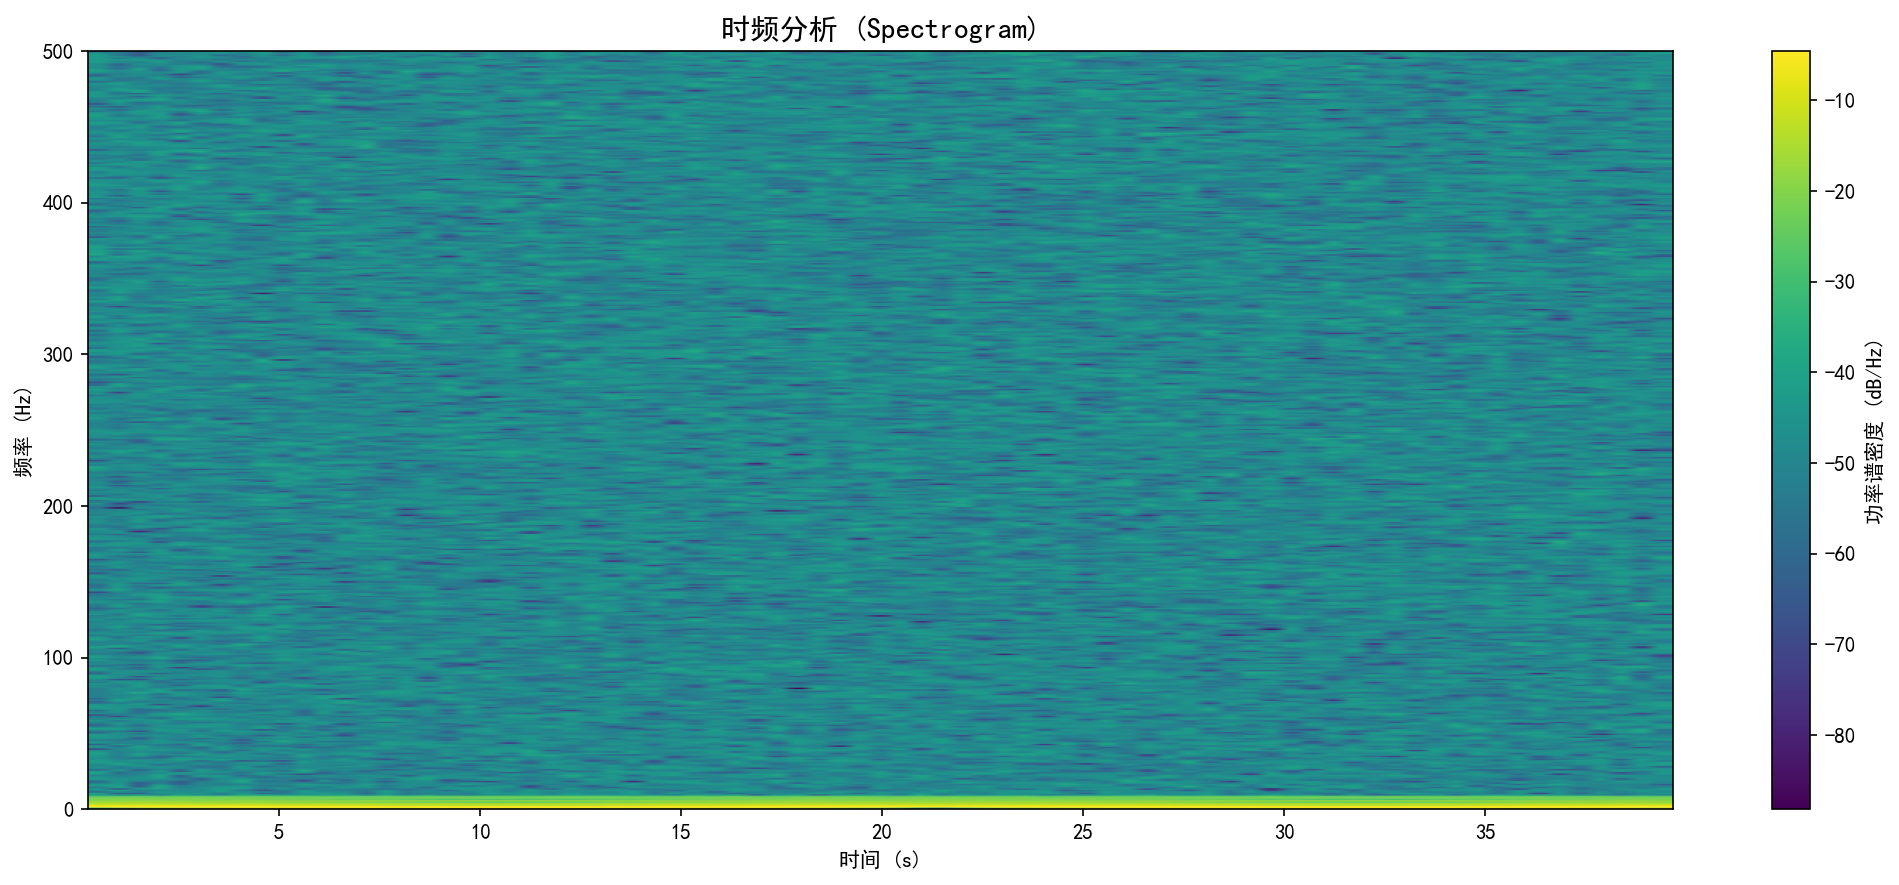
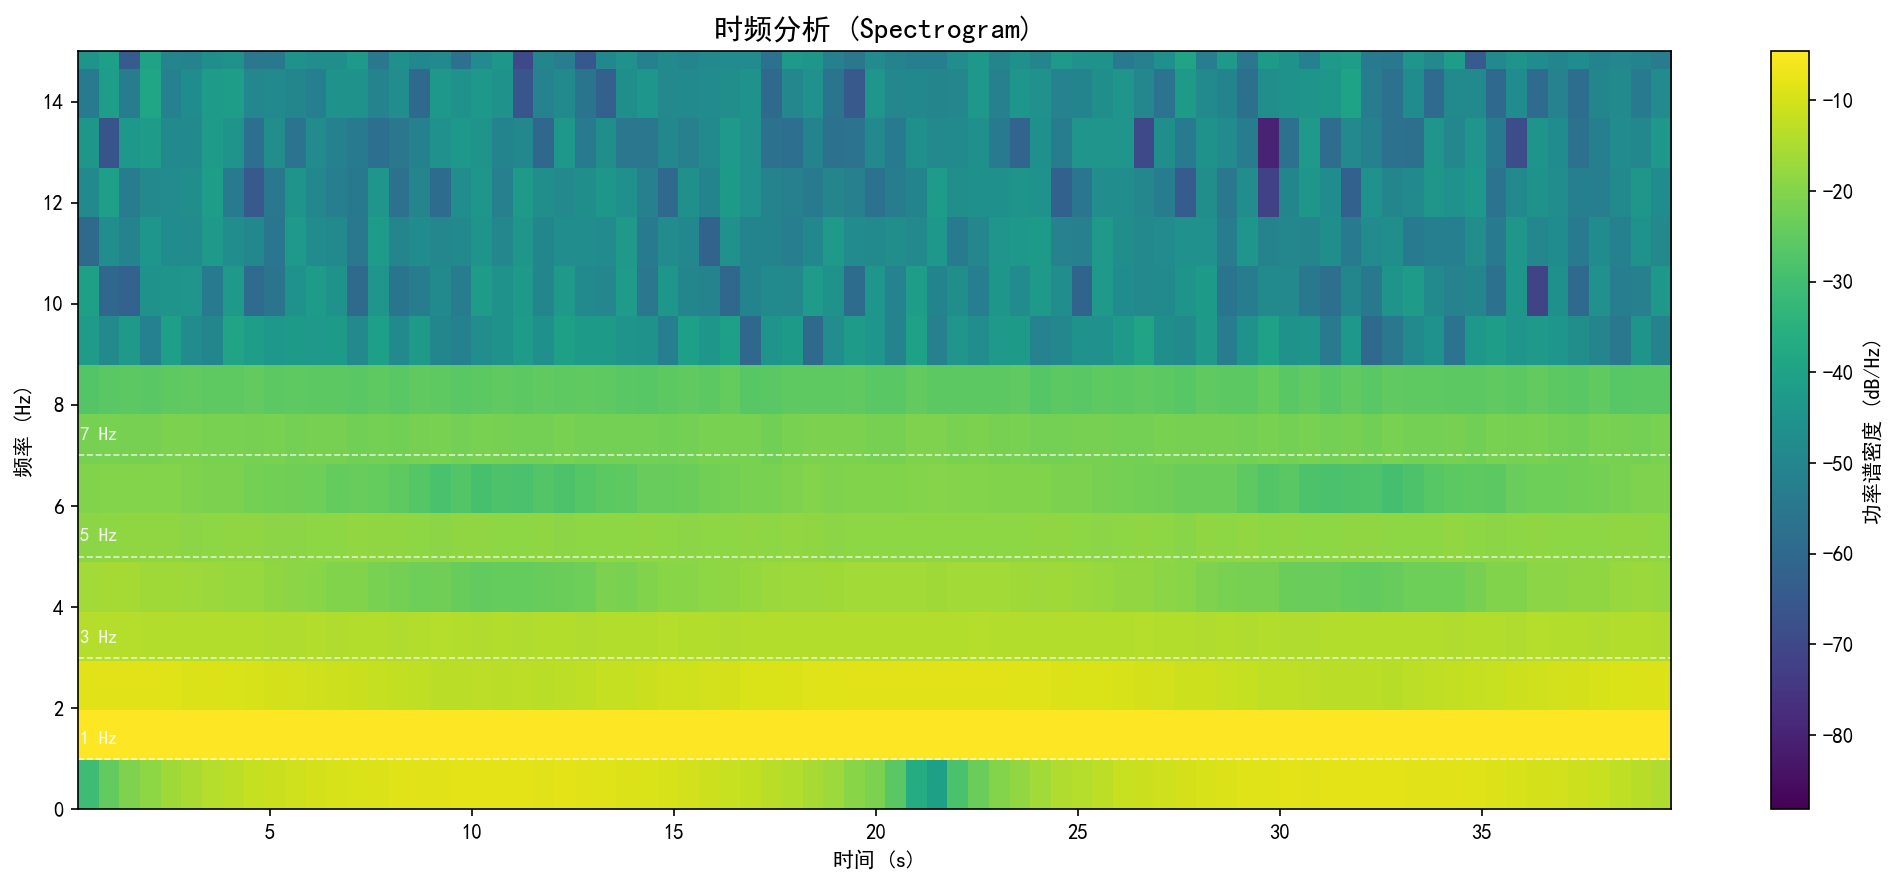
fix(signal): 修正A.3时频图y轴范围 — 聚焦信号频带
修改文件:
- scripts/run_signal_analysis.py: spectrogram y轴从 0~500Hz 改为 0~15Hz,
  使 1/3/5/7 Hz 谐波条带清晰可辨; 添加各谐波频率处的白色参考虚线与标注
- output/a3_spectrogram.png: 重新生成的时频图
- README.md: 嵌入 spectrogram 图片并补充说明文字

问题: 原图将 0~500Hz 全频段显示, 信号分量(1~7Hz)被压缩到底部 2% 像素,
无法辨认各谐波, 与 README 文字描述不匹配

diff --git a/Computational Physics/HW-2/scripts/run_signal_analysis.py b/Computational Physics/HW-2/scripts/run_signal_analysis.py
@@ -212,15 +212,26 @@ def main() -> None:
     # 使用 matplotlib 内置的 specgram 函数
     Pxx, freqs_spec, bins_spec, im = ax_spec.specgram(
         voltage_arr,
-        NFFT=1024,      # 每段 FFT 的点数
+        NFFT=1024,      # 每段 FFT 的点数（频率分辨率 ≈ fs/NFFT ≈ 0.98 Hz）
         Fs=fs,           # 采样率
-        noverlap=512,    # 重叠点数
+        noverlap=512,    # 重叠点数（50% 重叠）
         cmap="viridis",
     )
     ax_spec.set_title("时频分析 (Spectrogram)", fontsize=14, fontweight="bold")
     ax_spec.set_xlabel("时间 (s)")
     ax_spec.set_ylabel("频率 (Hz)")
-    ax_spec.set_ylim(0, 500)  # 仅显示 0~500 Hz
+    # 信号分量集中在 1/3/5/7 Hz，将 y 轴聚焦到信号区域以清晰显示各谐波条带
+    ax_spec.set_ylim(0, 15)
+    # 在各谐波频率处添加参考虚线，便于对照
+    for harmonic_freq in [1, 3, 5, 7]:
+        ax_spec.axhline(
+            y=harmonic_freq, color="white", linestyle="--",
+            linewidth=0.8, alpha=0.7,
+        )
+        ax_spec.text(
+            0.3, harmonic_freq + 0.3, f"{harmonic_freq} Hz",
+            color="white", fontsize=9, fontweight="bold", alpha=0.9,
+        )
     fig2.colorbar(im, ax=ax_spec, label="功率谱密度 (dB/Hz)")
 
     plt.tight_layout()

diff --git a/Computational Physics/HW-2/README.md b/Computational Physics/HW-2/README.md
@@ -195,6 +195,10 @@ FFT 后发现 **4 个显著的频率分量**，全部位于低频区域：
 
 4. **信号稳态性：** 从时频图 (Spectrogram) 可以看出，各频率分量在整个 40s 时间段内幅值恒定，说明信号是稳态的。
 
+![时频分析](output/a3_spectrogram.png)
+
+时频图中可清晰看到 1, 3, 5, 7 Hz 四条水平谐波带，亮度依次递减（对应 $1/n$ 幅值衰减），且在 0~40s 内保持均匀，证实了信号的稳态特征。9 Hz 以上为均匀噪声本底。
+
 #### 可视化
 
 ![信号频域分析](output/a3_signal_analysis.png)
